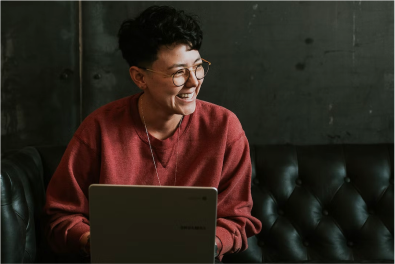
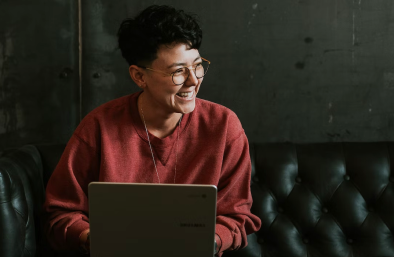
Same height on images now

diff --git a/yhm/src/components/courseCard/courseCard.module.css b/yhm/src/components/courseCard/courseCard.module.css
@@ -29,6 +29,8 @@
   position: relative;
   top: 0.1rem;
   margin-left: 0.5rem;
+  width: 24.625rem;
+  height: 16.063rem;
 }
 
 .courseCard__flex {
